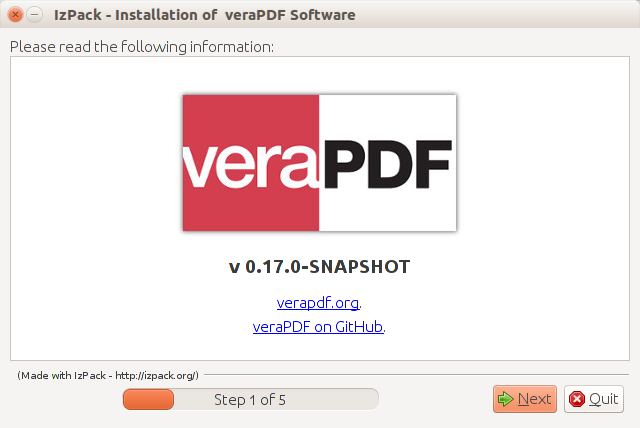
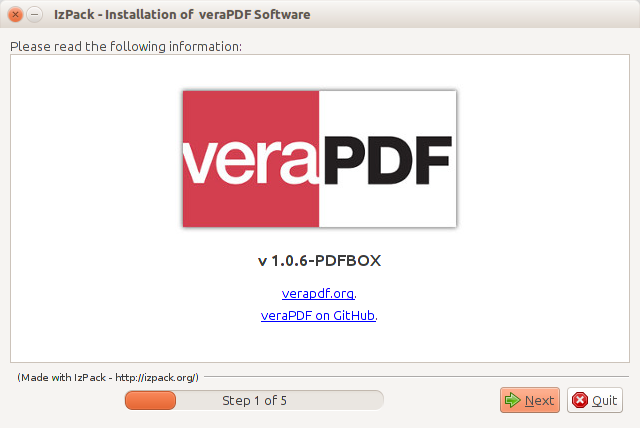
FEAT - CLI documentation - added getting started guide for the CLI; - added extra instructions for the installer; and - updated images for the installer steps.

diff --git a/cli/index.md b/cli/index.md
@@ -1,9 +1,179 @@
 ---
 layout: page
-title: CLI documentation
+title: veraPDF CLI Quick Start Guide
 ---
 
-veraPDF Command Line Interface Quick Start Guide
-------------------------------------------------
+{{ page.title }}
+================
+The veraPDF command line interface is the best way of processing batches of
+PDF/A files. It's designed for integrating with scripted workflows, or for
+shell invocation from programs.
 
-**Coming soon**
+We assume you've already downloaded and installed the software, if not please
+read the [installation guide](/install) first.
+
+Using a terminal
+----------------
+The guide also assumes some familiarity with using the command line interface
+on your operating system. If you're unsure the following should help get you
+started.
+
+### Windows
+This guide shows how to start a Windows command line client: http://www.computerhope.com/issues/chusedos.htm. If you've installed veraPDF to
+the default location then it should be available directly below the directory
+the command shell starts in. The initial prompt on my machine reads `C:\Users\cfw>`, so to go to the veraPDF install directly simply issue the
+command `cd verapdf`, the session output should look as follows:
+
+    C:\Users\cfw>cd verapdf
+    C:\Users\cfw\verapdf>
+
+You're now ready to start, you can check which version of veraPDF is installed
+by typing `verapdf.bat --version` from the installation directory. You should see something like:
+
+    C:\Users\cfw\verapdf>verapdf.bat --version
+    veraPDF 1.0.6-PDFBOX
+    Built: Fri Jan 13 11:30:00 GMT 2017
+    Developed and released by the veraPDF Consortium.
+    Funded by the PREFORMA project.
+    Released under the GNU General Public License v3
+    and the Mozilla Public License v2 or later.
+
+although the version information might be different.
+
+#### Important note for Windows users
+The instructions below assume you're running a Linux or Mac OS environment.
+You'll still be able to follow them on a Windows machine but you'll have to
+change the command slightly. Windows batch files have to end with a `.bat`
+extension, this isn't necessary on other platforms. This means that you'll have to use `verpdf.bat` to run the Windows batch script instead of executing the `verapdf` command used on other platforms.
+
+### Mac OS
+This is a good guide to starting a terminal session on a Mac: http://www.macworld.co.uk/feature/mac-software/get-more-out-of-os-x-terminal-3608274/. If you've installed veraPDF in the default directory then you should be
+able to type the command `cd verapdf` to move into the installation directory. The session output should look like this:
+
+    dm-macmini:~ cfw$ cd verapdf
+    dm-macmini:verapdf cfw$
+
+You can now check which version of the software is installed by typing
+`./verapdf --version`, the output will look something like this:
+
+    dm-macmini:verapdf cfw$ ./verapdf --version
+    veraPDF 1.0.6-PDFBOX
+    Built: Fri Jan 13 11:30:00 GMT 2017
+    Developed and released by the veraPDF Consortium.
+    Funded by the PREFORMA project.
+    Released under the GNU General Public License v3
+    and the Mozilla Public License v2 or later.
+
+but perhaps with different version information.
+
+### Linux
+We'll assume that Linux users are quite comfortable with the command line
+terminal. The name of the client and how you start it will depend upon your
+particular distribution. If you're using a Debian based distribution you can
+often start a terminal using the `CTRL+ALT+T` shortcut. If you've installed veraPDF in the default directory then you should be
+able to type the command `cd verapdf` to move into the installation directory. The session output should look like this:
+
+    cfw@dm-wrkstn:~$ cd verapdf
+    cfw@dm-wrkstn:~/verapdf$
+
+You can now check which version of the software is installed by typing
+`./verapdf --version`, the output will look something like this:
+
+    cfw@dm-wrkstn:~/verapdf$ ./verapdf --version
+    veraPDF 1.0.6-PDFBOX
+    Built: Fri Jan 13 11:30:00 GMT 2017
+    Developed and released by the veraPDF Consortium.
+    Funded by the PREFORMA project.
+    Released under the GNU General Public License v3
+    and the Mozilla Public License v2 or later.
+
+### Commands, aliases and paths
+As installed you'll only be able to use the veraPDF CLI by typing `./verapdf` from the installation directory. If you want to use it from another location
+you'll have to add the full path to the command, i.e. `/home/cfw/verapdf/verapdf` on Linux or `C:\Users\cfw\verapdf\verapdf.bat`
+on Windows which can get a little awkward. Use the platform dependent tips
+below to avoid this. The rest of the guide assumes you've done this to avoid
+long commands.
+
+#### Windows: adding the installation directory to the path
+You can add the installation directory to the `PATH` environment variable on
+Windows. The operating system will search all directories on the path for the
+command issued. To add the default veraPDF installation directory to the path
+issue the command: `set PATH=%PATH%;C:\Users\cfw\verapdf` BUT replace `cfw` with
+the name of your user home directory. On my machine this looks as follows:
+
+    C:\Users\cfw>set PATH=%PATH%;C:\Users\cfw\verapdf
+
+    C:\Users\cfw>
+
+#### Linux or Mac OS: set up an alias for the veraPDF command
+On these platforms you can extend the path, but it's often as convenient to
+define an alias for the command. To be able to use the `verapdf` command from
+any location type the command `alias verapdf='~/verapdf/verapdf'`. This assumes
+you've used the default installation directory, the `~` is shorthand for the
+current users home directory.
+
+Getting help
+-----------
+Once veraPDF has been installed you can get help on the full range of options by
+typing `verapdf -h` or `verapdf --help` at the Mac or Linux command line. This
+should be `verapdf.bat -h` or `verapdf.bat --help` on Windows (we won't keep
+reminding you of the alternative Windows syntax). This should give the following
+output, or something very similar:
+
+    Usage: veraPDF [options] FILES
+      Options:
+        -x, --extract
+           Extracts and reports PDF features.
+           Default: false
+        --fixmetadata
+           Performs metadata fixes.
+           Default: false
+        -f, --flavour
+           Chooses built-in Validation Profile flavour, e.g. '1b'. Alternatively,
+           supply '0' or no argument for automatic flavour detection based on a file's
+           metadata.
+           Default: 0
+           Possible Values: [0, 1a, 1b, 2a, 2b, 2u, 3a, 3b, 3u]
+        --format
+           Chooses output format.
+           Default: mrr
+           Possible Values: [xml, mrr, text]
+        -h, --help
+           Shows this message and exits.
+           Default: false
+        -l, --list
+           Lists built-in Validation Profiles.
+           Default: false
+        --maxfailures
+           Sets maximum amount of failed checks.
+           Default: -1
+        --maxfailuresdisplayed
+           Sets maximum amount of failed checks displayed for each rule.
+           Default: 100
+        -o, --off
+           Turns off PDF/A validation
+           Default: false
+        --policyfile
+           Select a policy schematron or XSL file.
+        --prefix
+           Sets file name prefix for any fixed files.
+           Default: veraFixMd_
+        -p, --profile
+           Loads a Validation Profile from given path and exits if loading fails.
+           This overrides any choice or default implied by the -f / --flavour option.
+        -r, --recurse
+           Recurses through directories. Only files with .pdf extensions are
+           processed.
+           Default: false
+        --savefolder
+           Sets output directory for any fixed files.
+           Default: <empty string>
+        --success, --passed
+           Logs successful validation checks.
+           Default: false
+        -v, --verbose
+           Adds failed test information to text output.
+           Default: false
+        --version
+           Displays veraPDF version information.
+           Default: false

diff --git a/install/index.md b/install/index.md
@@ -48,26 +48,36 @@ resources, including:
 - test PDF Documents; and
 - the veraPDF Validation Profiles.
 
-Installing veraPDF
-------------------
+Using the veraPDF installer
+---------------------------
 The installer simply unpacks components from the installer package to the local
-computer. It consists of the several steps:
+computer. It consists of the five steps:
 
-### Choose installation location
-Initially it is possible to specify the installation folder:
+### 1: About veraPDF
+The first tells you which version of the software you're installing:
 
-![veraPDF Installer folder selection screen](/images/installer/screen2.png "veraPDF installer screen 2")
+![veraPDF Installer folder selection screen](/images/installer/screen1.png "veraPDF installer step 1 of 5")
 
-### Select components
-The next step defines which veraPDF components are installed:
+### 2: Choose installation location
+At step two you can specify the installation folder:
 
-![veraPDF Installer pack selection screen](/images/installer/screen3.png "veraPDF installer screen 3")
+![veraPDF Installer folder selection screen](/images/installer/screen2.png "veraPDF installer step 2 of 5")
 
-### Generate installation script
+### 3: Select components
+Screen three allows you to select the components to be installed:
+
+![veraPDF Installer pack selection screen](/images/installer/screen3.png "veraPDF installer step 3 of 5")
+
+### 4: Installation
+The fourth stage installs the selected components to the chosen location:
+
+![veraPDF Installer pack selection screen](/images/installer/screen4.png "veraPDF installer step 4 of 5")
+
+### 5: Generate installation script
 It is possible to generate an installation script that can be used to repeat
 the installation on another computer:
 
-![veraPDF Installer script screen](/images/installer/screen5.png "veraPDF installer screen 5")
+![veraPDF Installer script screen](/images/installer/screen5.png "veraPDF installer step 4 of 5")
 
 What's installed where?
 -----------------------

diff --git a/index.md b/index.md
@@ -4,10 +4,23 @@ title: Getting Started
 ---
 
 {{ page.title }}
-----------------
+================
 
 Installing veraPDF
 ------------------
 The veraPDF installer works on any Windows, Mac OS or Linux machine that's
 running Java 7 or later. Read the [installation instructions](install) to find
-out more. 
+out more.
+
+The veraPDF GUI
+---------------
+Once you've installed the software the GUI is the quickest and easiest way to
+try it out. You can read more about using the GUI [here on this documentation site](gui).
+
+The veraPDF CLI
+---------------
+While the GUI offers access to all of veraPDF's functionality it's not a
+practical way of automating veraPDF tasks or saving the results for large
+batches. If you'd like a little more power and flexibility you should use the
+command line interface that's also installed, our getting started guide is
+[available here](cli).
